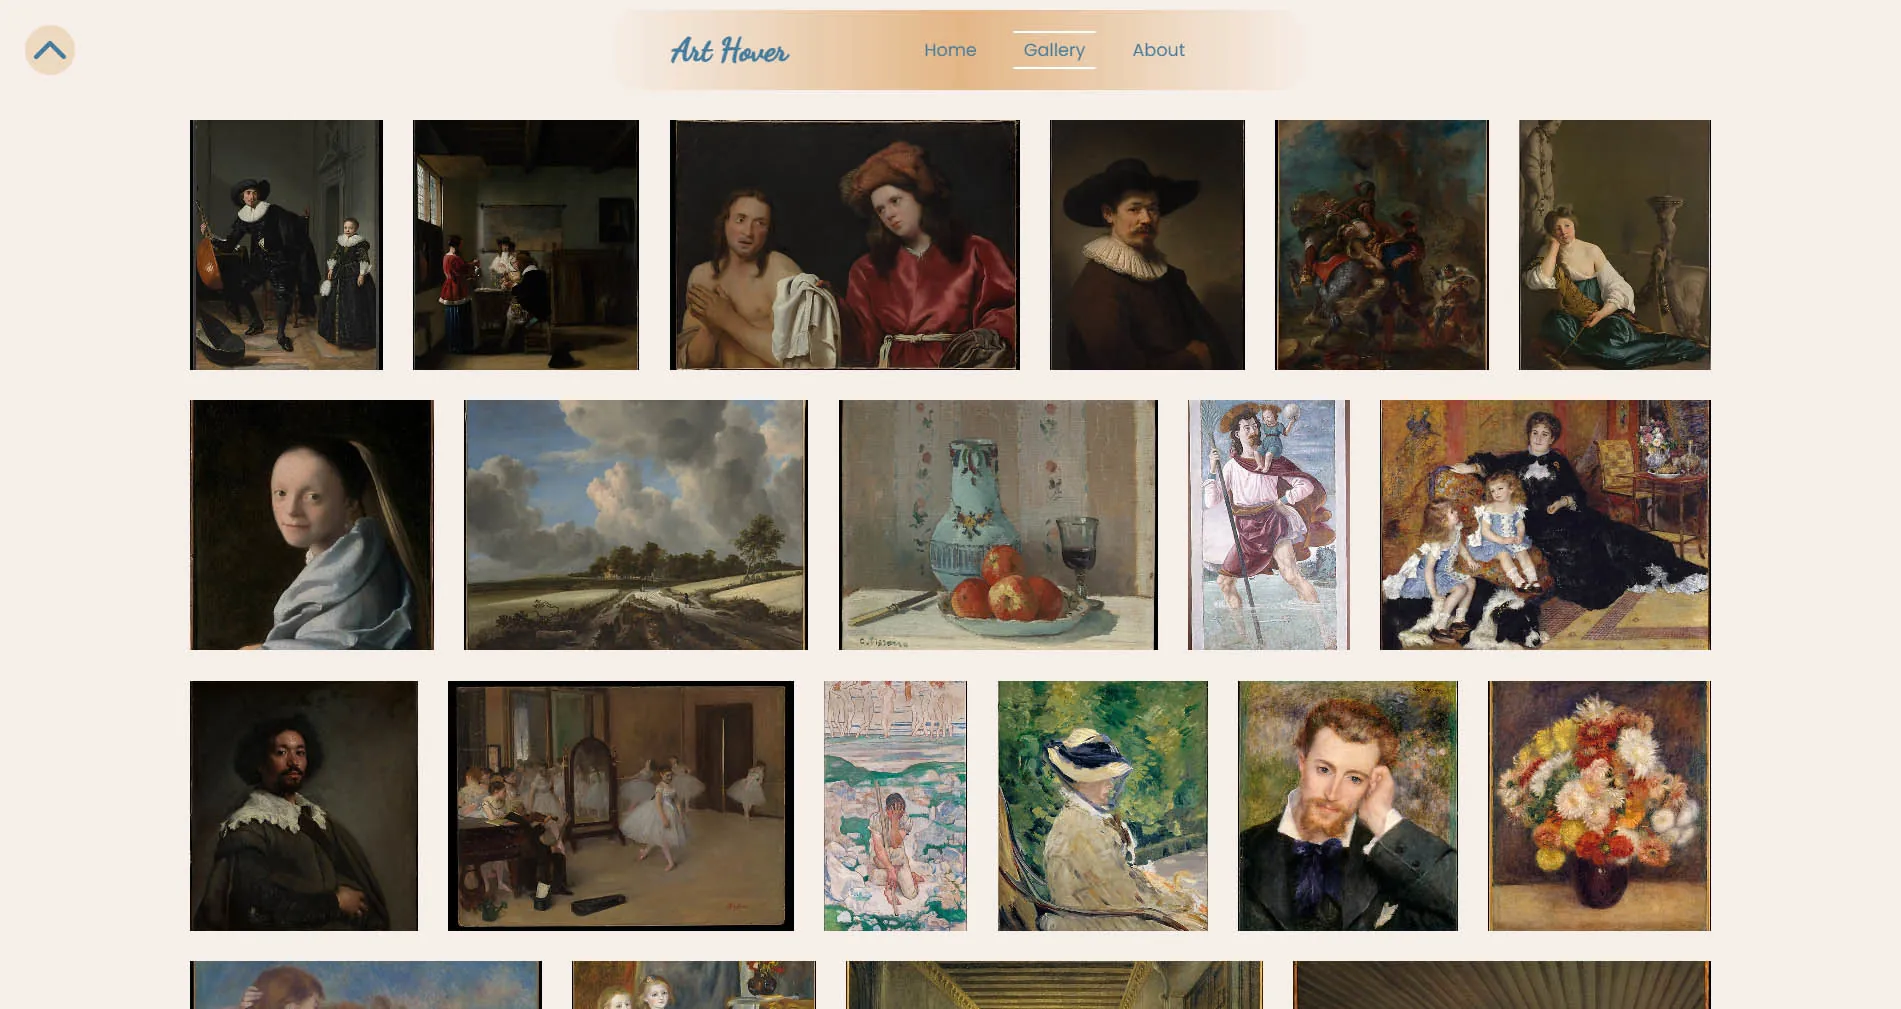
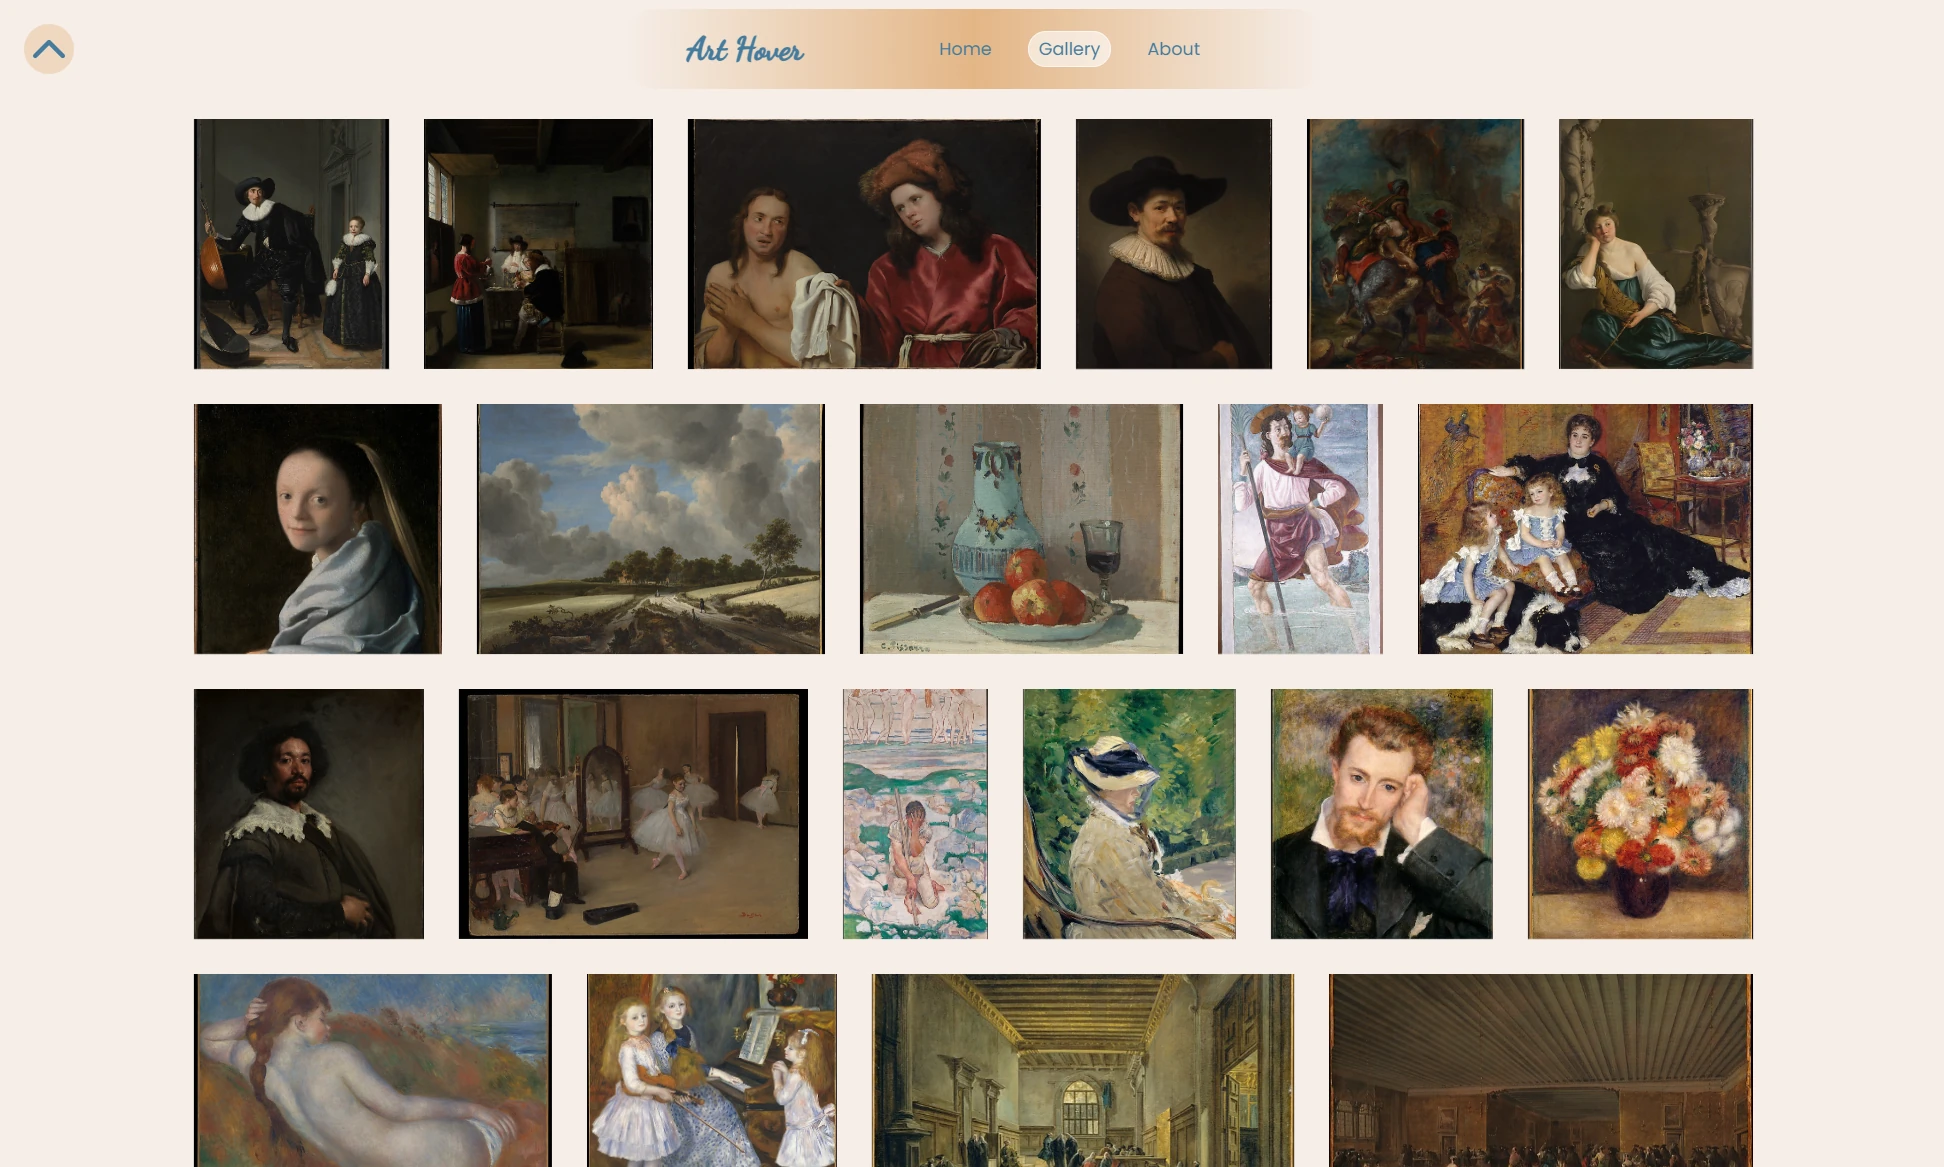
Almost finish the first step of homepage. Add almost all logic of project

diff --git a/src/components/ProjectList/ProjectList.tsx b/src/components/ProjectList/ProjectList.tsx
@@ -20,17 +20,17 @@ function ProjectList() {
     useEffect(() => {
         const fetchProjects = async () => {
             try {
-            const response = await fetch('/config/projects.json');
-            const data = await response.json();
-            setProjects(data);
+                const response = await fetch('/config/projects.json');
+                const data = await response.json();
+                setProjects(data);
 
-            const techSet = new Set<string>();
-            data.forEach((project: Project) => {
-                project.technologies.forEach(tech => techSet.add(tech));
-            });
-            setTechnologies(Array.from(techSet));
+                const techSet = new Set<string>();
+                data.forEach((project: Project) => {
+                    project.technologies.forEach(tech => techSet.add(tech));
+                });
+                setTechnologies(Array.from(techSet));
             } catch (error) {
-            console.error('Erreur lors du chargement des projets :', error);
+                console.error('Erreur lors du chargement des projets :', error);
             }
         };
 
@@ -45,36 +45,41 @@ function ProjectList() {
         }
     };
 
-    const filteredProjects = projects.filter(project =>
+    const filteredProjects = filter.length === 0 ? projects : projects.filter(project =>
         filter.every(f => project.technologies.includes(f))
     );
 
+    const noMatches = filter.length > 0 && filteredProjects.length === 0;
+
     return (
         <div className="projects__container">
-            <h2 className="projects__title">Mes projets :</h2>
-            <div className="projects__filters">
-                <button className="projects__filter" onClick={() => setFilter([])}>Reset Filters</button>
-                {technologies.map(tech => (
-                    <button
-                    key={tech}
-                    className={filter.includes(tech) ? 'active' : ''}
-                    onClick={() => handleFilterChange(tech)}
-                    >
-                    {tech}
-                    </button>
-                ))}
+            <h2 className="projects__title">Mes <span className="highlight">projets :</span></h2>
+            <div className="projects__filters__container">
+                <p className="projects__choice">Filtrez les projets :</p>
+                <div className="projects__filters">
+                    <button className="projects__filter" onClick={() => setFilter([])}>Reset</button>
+                    {technologies.map(tech => (
+                        <button
+                            key={tech}
+                            className={`projects__filter ${filter.includes(tech) ? 'filter__active' : ''}`}
+                            onClick={() => handleFilterChange(tech)}
+                        >
+                            {tech}
+                        </button>
+                    ))}
+                </div>
             </div>
+            
+            {noMatches && <p className='projects__cards__error'>Aucun projet ne correspond à votre recherche.</p>}
             <div className="projects__cards">
                 {filteredProjects.map((project, index) => (
-                    <div className="projects__cards__container" key={index}>
-                        <img src={project.image} alt={project.name} />
-                        <h3>{project.name}</h3>
-                        <p>{project.description}</p>
-                        <p>{project.technologies.join(", ")}</p>
-                        <a href={project.githubLink} target="_blank" rel="noopener noreferrer">GitHub</a>
-                        <a href={project.liveLink} target="_blank" rel="noopener noreferrer">Live Demo</a>
-                        <Link to={`/projects/${project.slug}`}>Voir le projet</Link>
-                    </div>
+                    <Link to={`/projects/${project.slug}`} className="projects__cards__container" key={index}>
+                        <img src={project.image} alt={project.name} className='projects__cards__images'/>
+                        <div className="projects__cards__content">
+                            <h3 className='projects__cards__titles'>{project.name}</h3>
+                            <p className='projects__cards__technologies'>{project.technologies.join(", ")}</p>
+                        </div>
+                    </Link>
                 ))}
             </div>
         </div>

diff --git a/src/components/ProjectList/ProjectList.scss b/src/components/ProjectList/ProjectList.scss
@@ -1,0 +1,97 @@
+.projects{
+    &__container{
+        display: flex;
+        flex-direction: column;
+        align-items: center;
+        min-height: 80vh;
+        gap: 70px;
+        padding: 10px 20px;
+    }
+    &__title{
+        font-family: 'Yellowtail', sans-serif;
+        font-size: $title-size;
+    }
+    &__filters{
+        &__container{
+            display: flex;
+            flex-direction: row;
+            gap: 5px;
+            align-items: center;
+        }
+        display: flex;
+        flex-direction: row;
+        gap: 10px;
+        flex-wrap: wrap;
+        justify-content: center;
+    }
+    &__filter{
+        cursor: pointer;
+        background-color: transparent;
+        color: $secondary-text-color;
+        border: 1px solid $secondary-text-color;
+        padding: 5px 10px;
+        min-width: 75px;
+        border-radius: 20px;
+        font-size: $regular-size;
+        transition: all .5s ease;
+    }
+
+    &__cards{
+        width: 100%;
+        max-width: 1550px;
+        display: flex;
+        flex-direction: row;
+        gap: 1rem;
+        flex-wrap: wrap;
+        justify-content: center;
+
+        &__container{
+            position: relative;
+            height: 275px;
+            min-width: 350px;
+            max-width: 500px;
+            overflow: hidden;
+            border-radius: 20px;
+            &:hover {
+                &> .projects__cards__content{
+                    transform: translateY(20%);
+                    &> .projects__cards__technologies{
+                        color: $secondary-text-color;
+                    }
+                }
+                
+                &> .projects__cards__images{
+                    filter: brightness(100%);
+                }
+            }
+        }
+
+        &__content{
+            position: absolute;
+            padding: 50px 10px;
+            bottom: 0;
+            left: 0;
+            color: $main-text-color;
+            width: 120%;
+            border-radius: 20px;
+            transform: translateY(45%);
+            transition: transform 0.5s ease;
+            text-shadow: 4px 4px 16px rgba(2, 2, 2, 1), 4px 4px 16px rgba(2, 2, 2, 1), 4px 4px 16px rgba(2, 2, 2, 1), 4px 4px 16px rgba(2, 2, 2, 1), 4px 4px 16px rgba(2, 2, 2, 1), 4px 4px 16px rgba(2, 2, 2, 1), 4px 4px 16px rgba(2, 2, 2, 1) ;
+        }
+        &__technologies{
+            transition: color 0.5s ease;
+        }
+
+        &__images{
+            display: block;
+            width: 100%;
+            transition: all 0.5s ease;
+            filter: brightness(50%);
+        }
+    }
+}
+
+.filter__active{
+    background-color: $secondary-text-color;
+    color: $main-text-color;
+}

diff --git a/src/components/Header/Header.scss b/src/components/Header/Header.scss
@@ -7,6 +7,7 @@
     top: 0;
     width: 100%;
     z-index: 5;
+    background-color: $main-background-color;
     font-size: $regular-size;
     height: $header-size;
     &__logo{

diff --git a/src/components/Heroe/Heroe.scss b/src/components/Heroe/Heroe.scss
@@ -1,5 +1,5 @@
 .heroe{
-    height: 80vh;
+    height: 85vh;
     width: 100%;
     margin:  $header-size auto 0 auto;
     display: flex;
